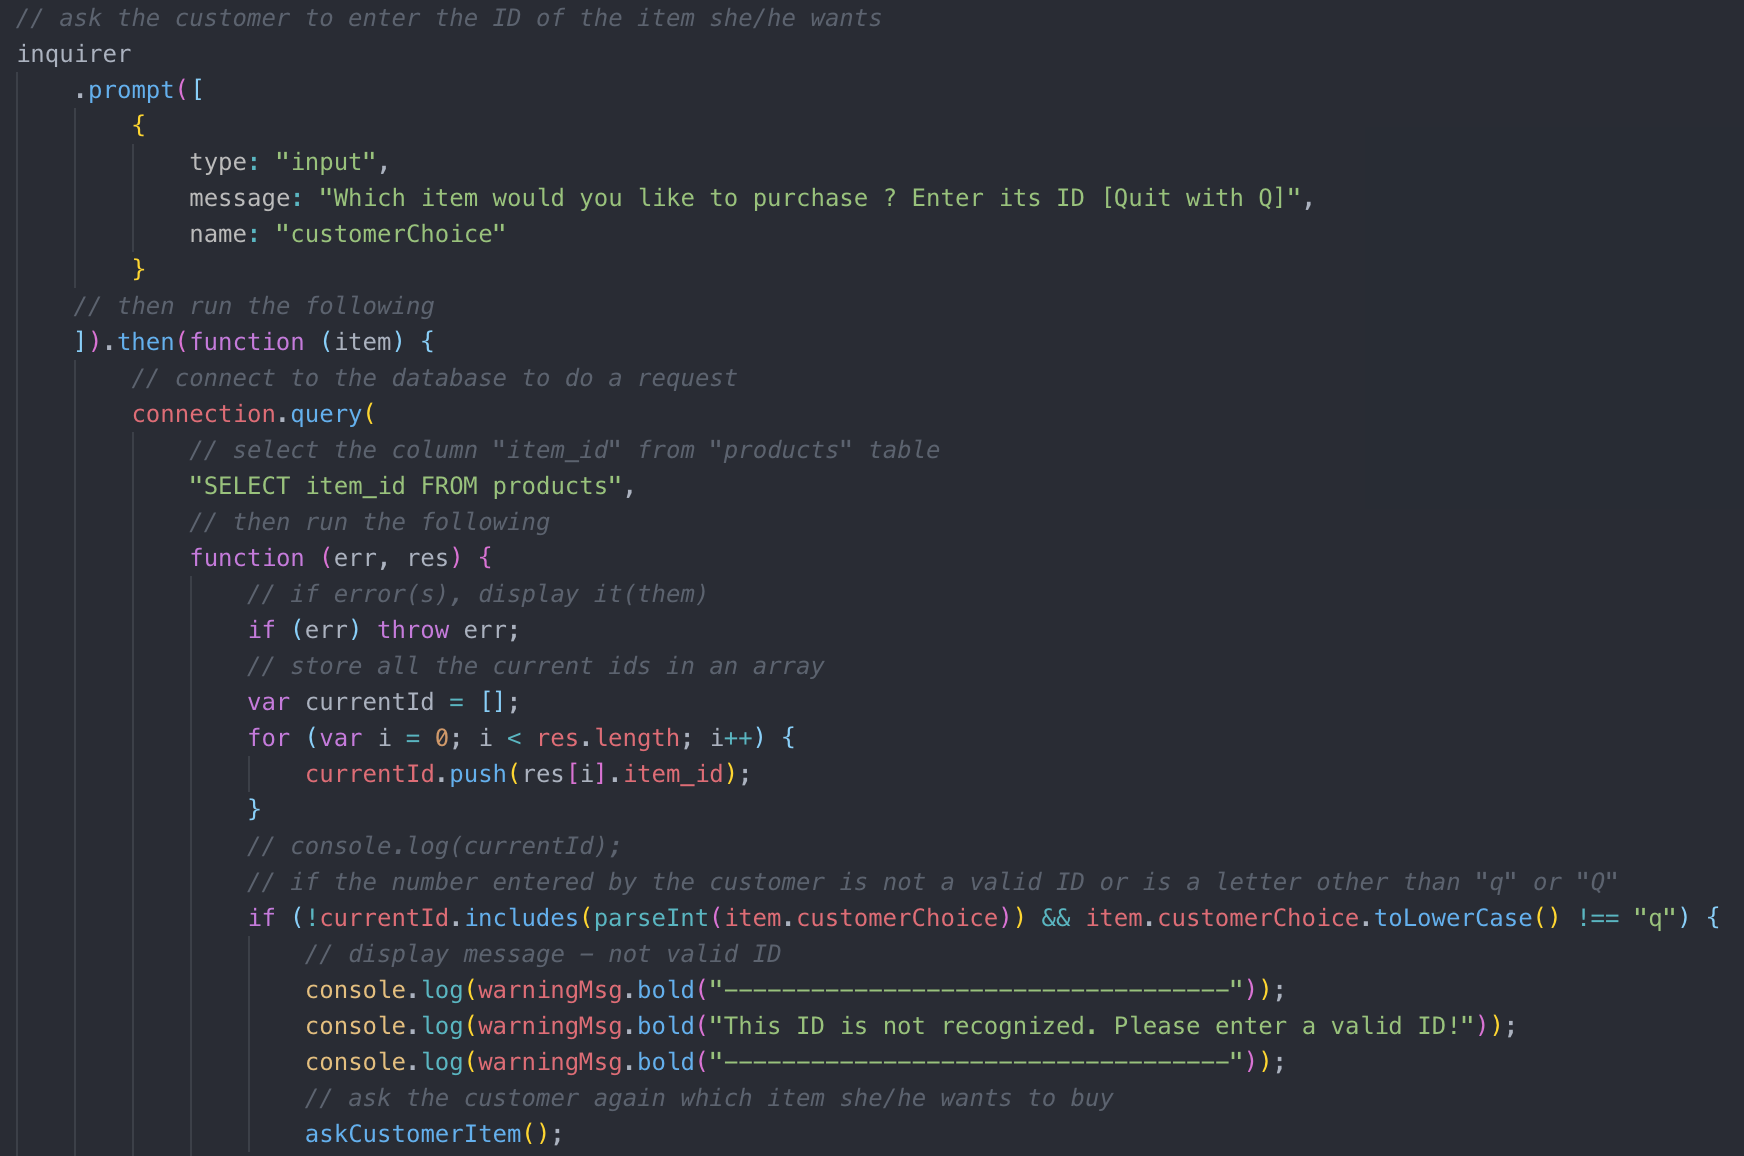
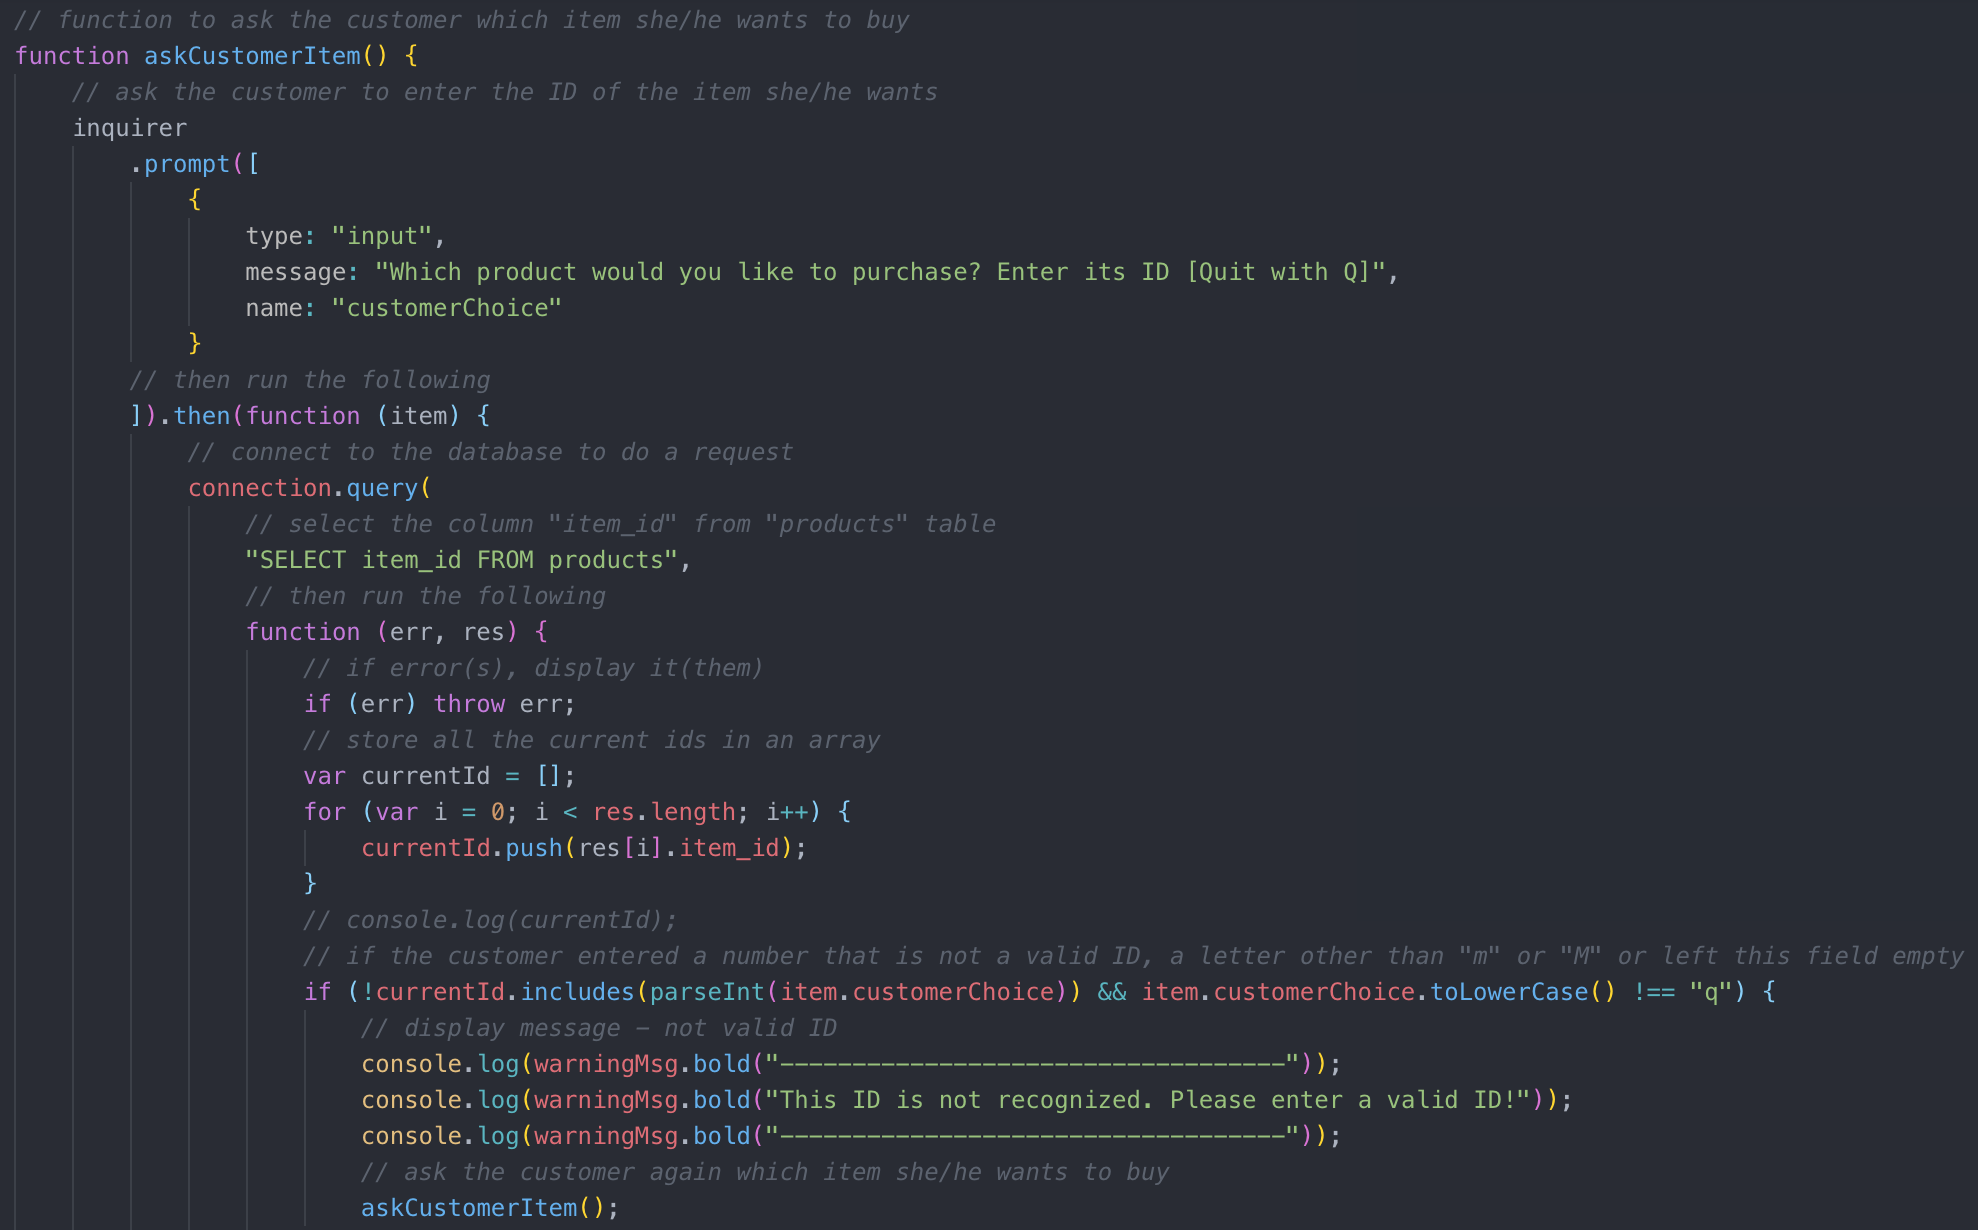
add updated README.md and updated '.js' files - forgot to say that the input validations also 'protect' against empty answer

diff --git a/bamazonManager.js b/bamazonManager.js
@@ -198,7 +198,7 @@ function askManagerItemToAddMore() {
                                 currentId.push(res[i].item_id);
                             }
                             // console.log(currentId);
-                            // if the number entered by the manager is not a valid ID or is a letter other than "m" or "M"
+                            // if the manager entered a number that is not a valid ID, a letter other than "m" or "M" or left this field empty
                             if (!currentId.includes(parseInt(answer.id)) && answer.id.toLowerCase() !== "m") {
                                 // display message - not valid ID
                                 console.log(warningMsg.bold("-----------------------------------"));
@@ -206,7 +206,7 @@ function askManagerItemToAddMore() {
                                 console.log(warningMsg.bold("-----------------------------------"));
                                 // ask the manager again for which product she/he wants to add items
                                 askManagerItemToAddMore();
-                            // if the manager entered "m" or "M"
+                            // if the manager entered "m" or "M" 
                             } else if (answer.id.toLowerCase() === "m") {
                                 // display message - main menu
                                 console.log(clc.blue.bold("-----------------------------------"));
@@ -214,7 +214,7 @@ function askManagerItemToAddMore() {
                                 console.log(clc.blue.bold("-----------------------------------"));
                                 // go back to the main menu - list of options
                                 managerOptions();
-                            // otherwise...
+                            // if the customer enter a valid ID
                             } else {
                                 // ask the manager how many she/he wants to add
                                 askManagerQuantity(answer.id);
@@ -250,7 +250,7 @@ function askManagerQuantity(managerChoice) {
                 console.log(clc.blue.bold("-----------------------------------"));
                 // go back to the main menu - list of options
                 managerOptions();
-            // if the manager entered a letter other than "M" or "m"
+            // if the manager entered a letter other than "M" or "m" or left the field empty
             } else {
                 // display a message - not a valid quantity
                 console.log(warningMsg.bold("-----------------------------------"));

diff --git a/bamazonCustomer.js b/bamazonCustomer.js
@@ -60,7 +60,7 @@ function askCustomerItem() {
         .prompt([
             {
                 type: "input",
-                message: "Which product would you like to purchase ? Enter its ID [Quit with Q]",
+                message: "Which product would you like to purchase? Enter its ID [Quit with Q]",
                 name: "customerChoice"
             }
         // then run the following
@@ -79,7 +79,7 @@ function askCustomerItem() {
                         currentId.push(res[i].item_id);
                     }
                     // console.log(currentId);
-                    // if the number entered by the customer is not a valid ID or is a letter other than "q" or "Q"
+                    // if the customer entered a number that is not a valid ID, a letter other than "m" or "M" or left this field empty
                     if (!currentId.includes(parseInt(item.customerChoice)) && item.customerChoice.toLowerCase() !== "q") {
                         // display message - not valid ID
                         console.log(warningMsg.bold("-----------------------------------"));
@@ -130,7 +130,7 @@ function askCustomerQuantity(customerChoice) {
                 console.log(goodbyeMsg.bold("-----------------------------------"));
                 // end the connection with bamazon_db
                 connection.end();
-            // if the customer entered a letter other than "q" or "Q"
+            // if the customer entered a letter other than "q" or "Q" or left the field empty
             } else {
                 // display a message - not a valid quantity
                 console.log(warningMsg.bold("-----------------------------------"));

diff --git a/README.md b/README.md
@@ -18,9 +18,10 @@ The app shows a main menu (list of options) the manager can choose from. Five op
 - "Add new product", which asks the manager the info (name, department, price, quantity) about the product she/he wants to add to the store
 - "Quit", to quit Bamazon.
 
-<br>**For both sides, some input validations have been defined** so that if the customer's or manager's answer is not valid a message will be displayed and the question will be asked again. For example, on the customer's side:
-- for the first question (which item?), if the customer enters a letter other than "Q"/"q" or a number that is not a current valid ID, a "not-a-valid-id" message will be displayed and the first question will be asked again - see code snippet below for details.
-- for the second question (how many?), if the customer enters a letter other than "Q"/"q", a "not-a-valid-quantity" message will be displayed and the second question is asked again.
+<br>**For both sides, some input validations have been defined** so that if the customer's or manager's answer is not valid, a message will be displayed and the question will be asked again.
+For example, on the customer's side:
+- for the first question (which item?), if the customer enters a letter other than "Q"/"q", a number that is not a current valid ID or doesn't answer anything, a "not-a-valid-id" message will be displayed and the first question will be asked again - see code snippet below for details.
+- for the second question (how many?), if the customer enters a letter other than "Q"/"q" or doesn't answer anything, a "not-a-valid-quantity" message will be displayed and the second question is asked again.
 
 ---
 
